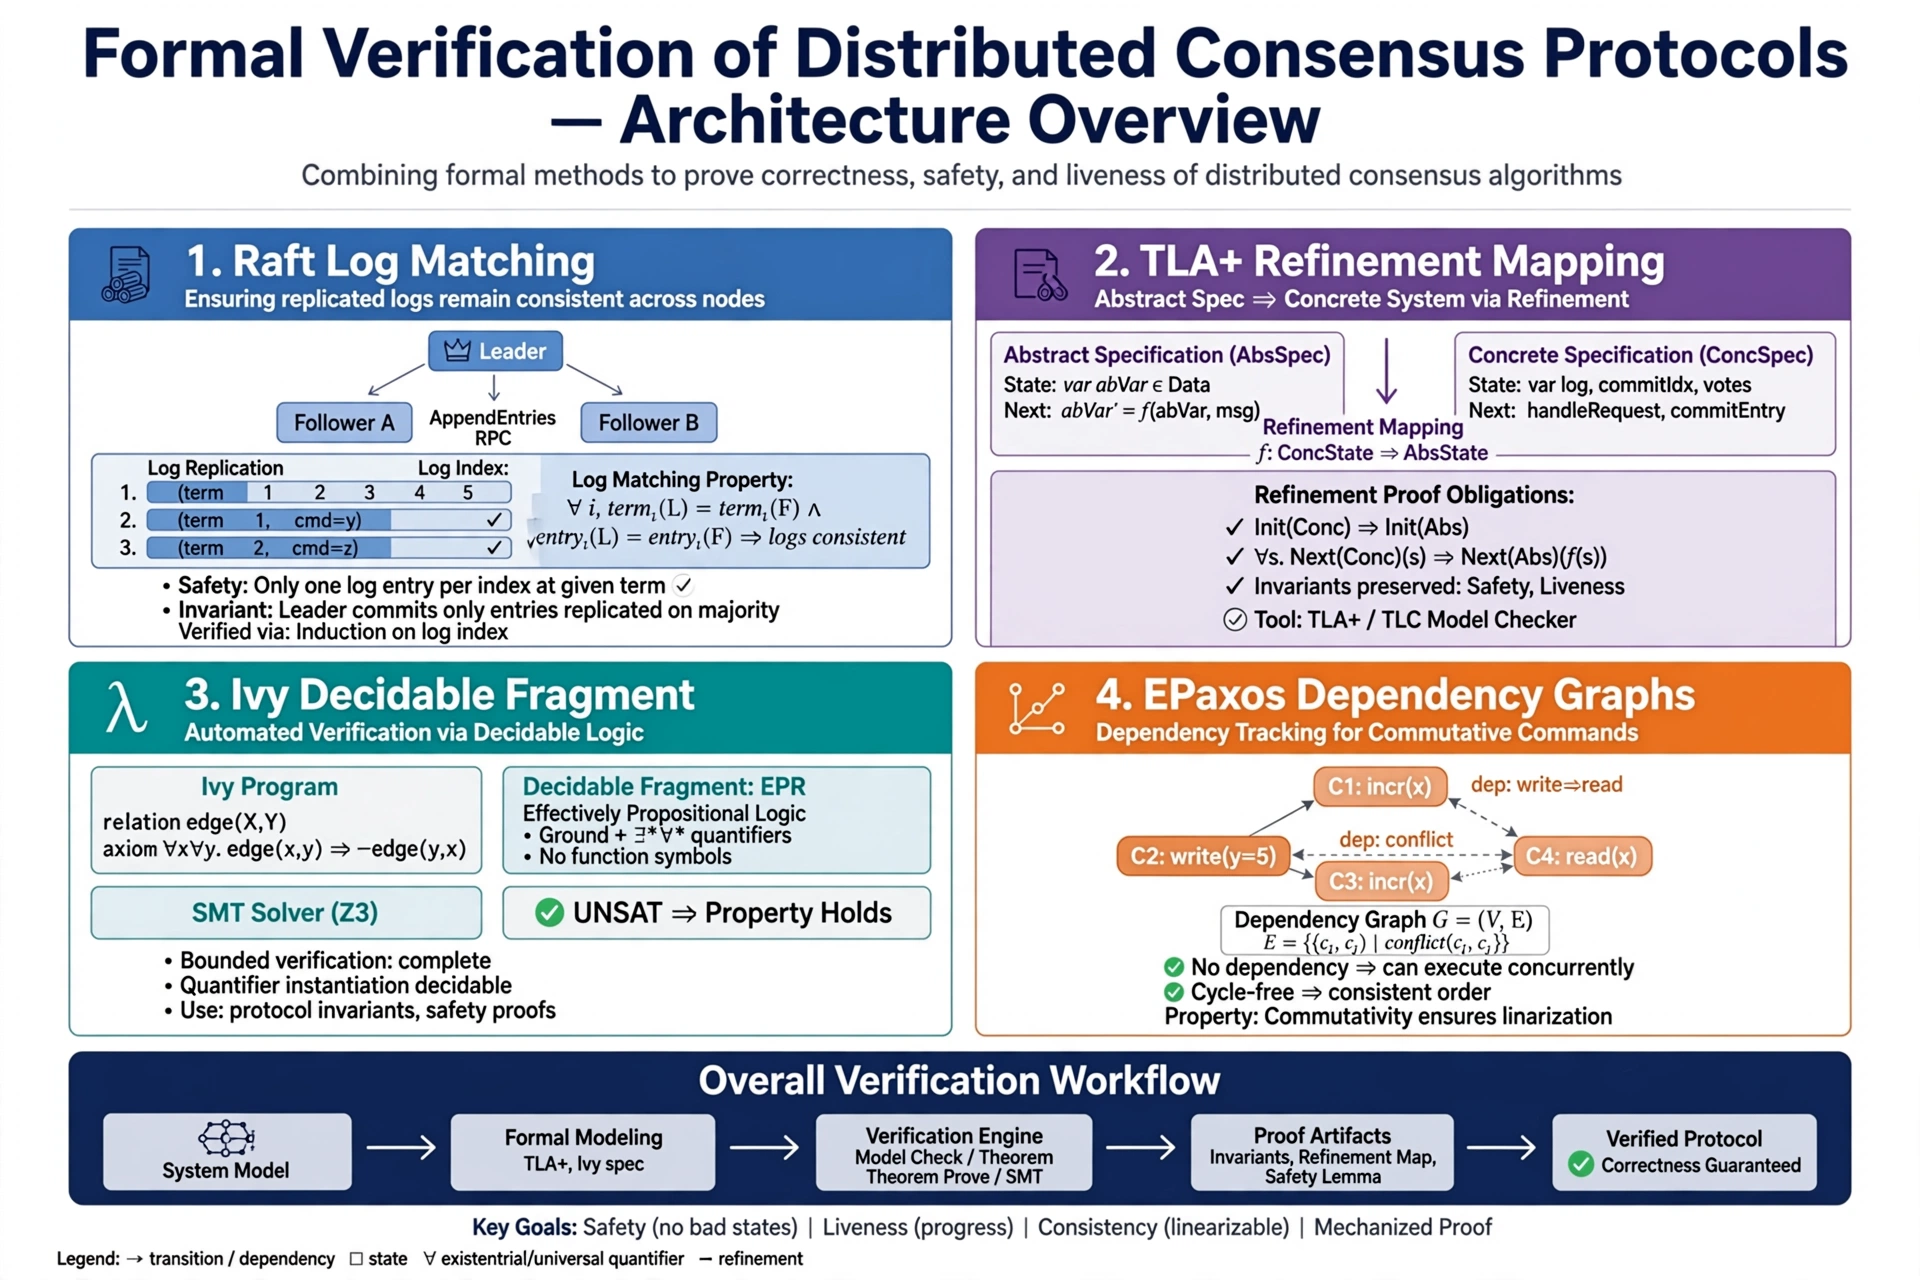
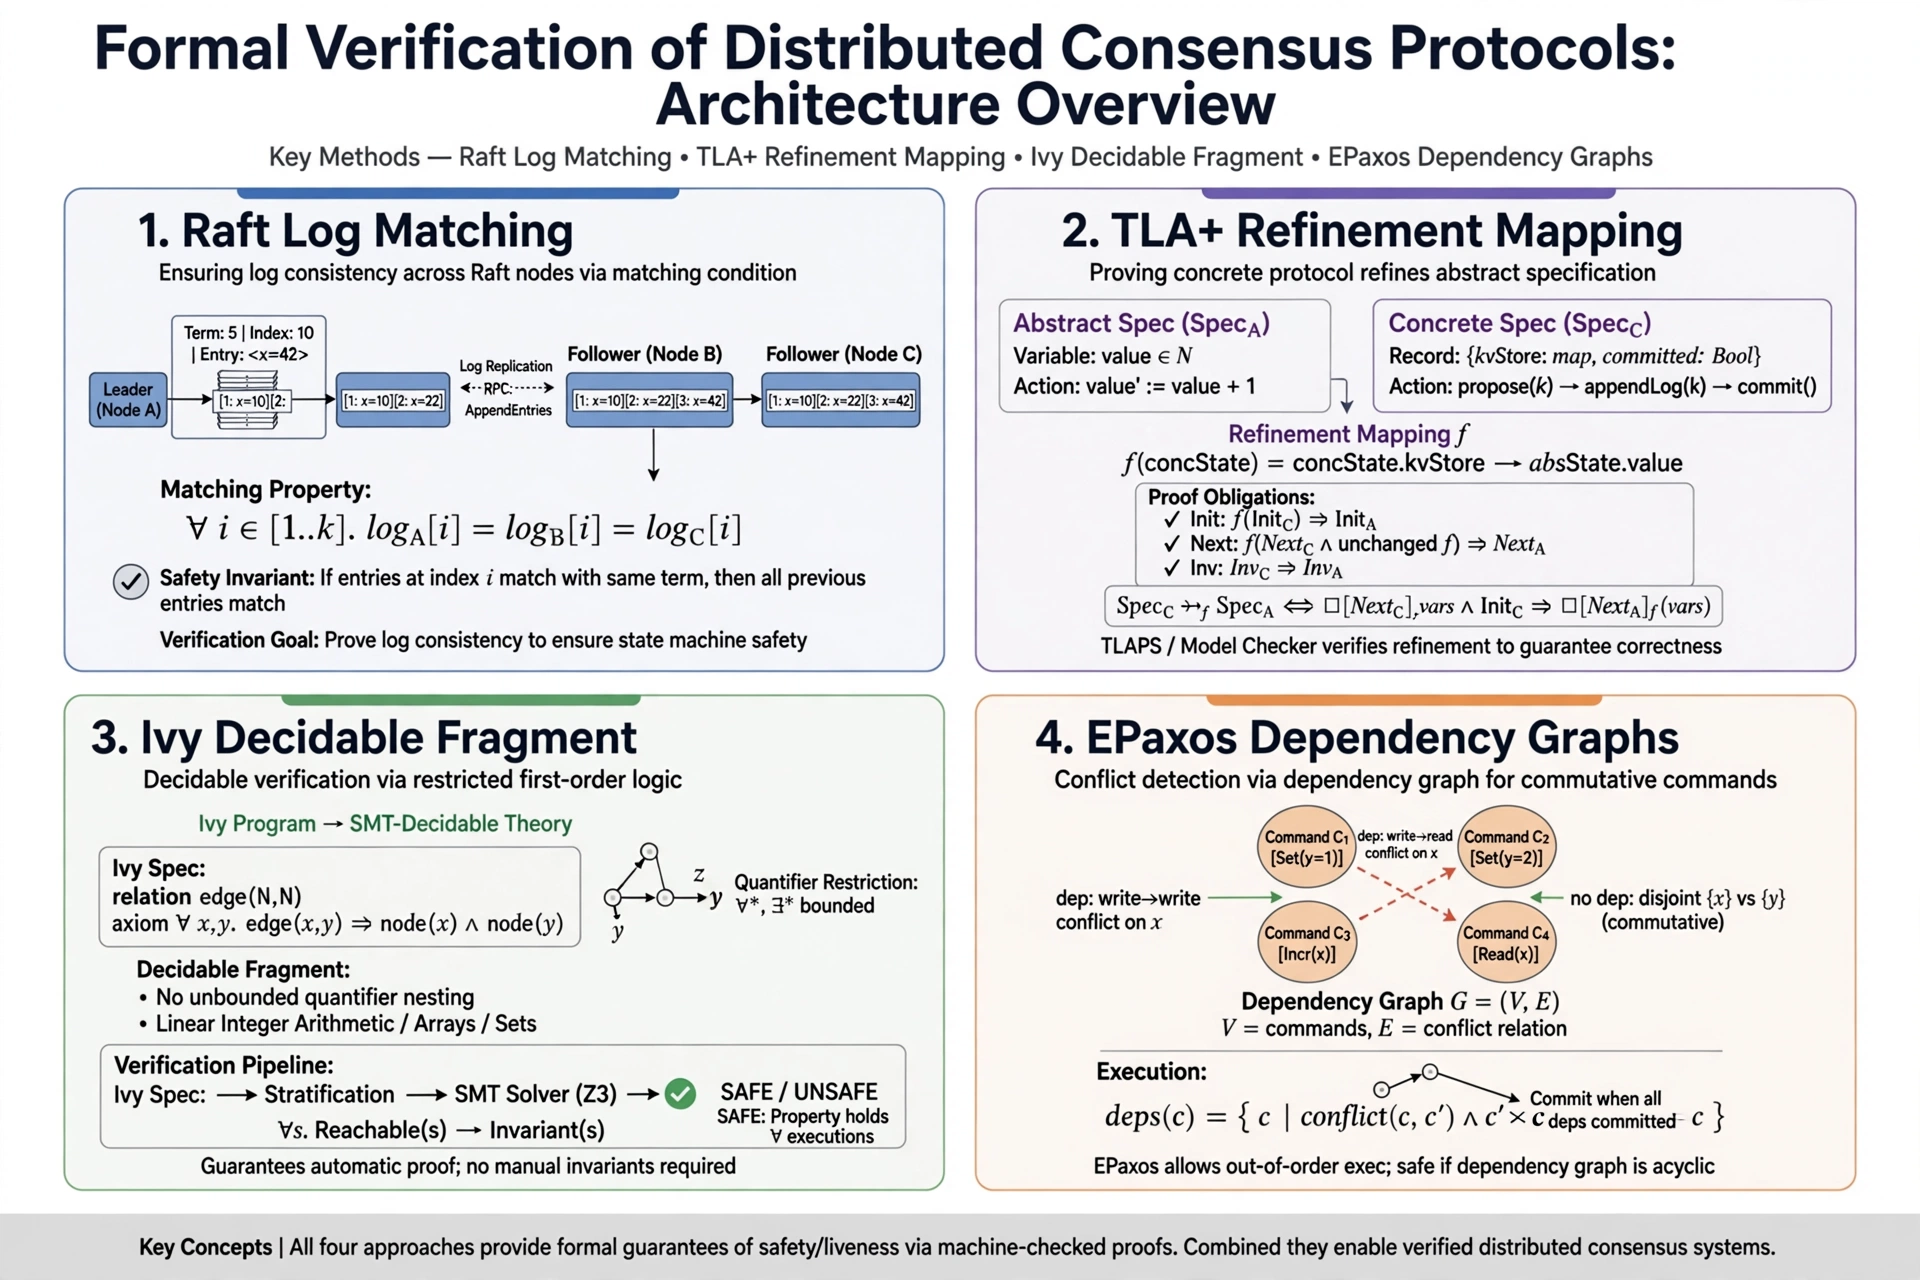
thesis batch: complete images 20/40

diff --git a/content/thesis/ths_1787689876760_ac85.md b/content/thesis/ths_1787689876760_ac85.md
@@ -5,7 +5,7 @@ topic: "formal consensus raft tla+ ivy"
 anon: "anon#5467"
 ts: 1787689876760
 id: "ths_1787689876760_ac85"
-images: ["/thesis/ths_1787689876760_ac85-0.webp"]
+images: ["/thesis/ths_1787689876760_ac85-0.webp", "/thesis/ths_1787689876760_ac85-1.webp"]
 sources: [{"id": 1, "title": "In Search of an Understandable Consensus Algorithm - Raft", "url": "https://raft.github.io/raft.pdf", "authors": "Ongaro Ousterhout 2014"}, {"id": 2, "title": "TLA+ Specification of Raft", "url": "https://github.com/ongardie/raft.tla", "authors": "Ongaro"}, {"id": 3, "title": "Ivy: Safety Verification by Interactive Generalization", "url": "https://kenmcmil.github.io/ivy/", "authors": "McMillan et al."}, {"id": 4, "title": "How to Prove Raft with TLA+ and Ivy", "url": "https://arxiv.org/abs/2108.11960", "authors": "Woos et al. 2021"}, {"id": 5, "title": "EPaxos: Egalitarian Paxos", "url": "https://www.cs.cmu.edu/~dga/papers/epaxos-sosp2013.pdf", "authors": "Moraru et al. SOSP 2013"}, {"id": 6, "title": "Verdi: A Framework for Verifying Distributed Systems", "url": "https://arxiv.org/abs/1506.03013", "authors": "Wilcox et al."}, {"id": 7, "title": "Paxos vs Raft: Have We Reached Consensus on Consensus?", "url": "https://arxiv.org/abs/2004.05074", "authors": "Howard et al. 2020"}]
 ---
 

diff --git a/content/thesis/ths_1787689883760_28d2.md b/content/thesis/ths_1787689883760_28d2.md
@@ -5,7 +5,7 @@ topic: "vdf randomness beacon drand"
 anon: "anon#6958"
 ts: 1787689883760
 id: "ths_1787689883760_28d2"
-images: []
+images: ["/thesis/ths_1787689883760_28d2-0.webp"]
 sources: [{"id": 1, "title": "Verifiable Delay Functions - Boneh et al.", "url": "https://eprint.iacr.org/2018/601", "authors": "Boneh et al. CRYPTO 2018"}, {"id": 2, "title": "Efficient Verifiable Delay Functions - Wesolowski and Pietrzak", "url": "https://eprint.iacr.org/2018/623", "authors": "Wesolowski 2019 / Pietrzak 2019"}, {"id": 3, "title": "drand: Distributed Randomness Beacon", "url": "https://drand.love/docs/", "authors": "drand Project"}, {"id": 4, "title": "RANDAO: Random Number Generation for Ethereum 2.0", "url": "https://github.com/randao/randao", "authors": "Randao Org"}, {"id": 5, "title": "Ethereum Beacon Chain RANDAO + VDF", "url": "https://ethresear.ch/t/minimal-vdf-randomness-beacon/3566", "authors": "Drake et al. ethresear.ch"}, {"id": 6, "title": "Formal Analysis of VDF-based Randomness", "url": "https://arxiv.org/abs/2002.07048", "authors": "Garay et al. 2020"}, {"id": 7, "title": "Class Groups and VDF Implementation in Rust", "url": "https://github.com/drand/drand/blob/master/chain/beacon/chain_info.go", "authors": "drand Go impl"}]
 ---
 
